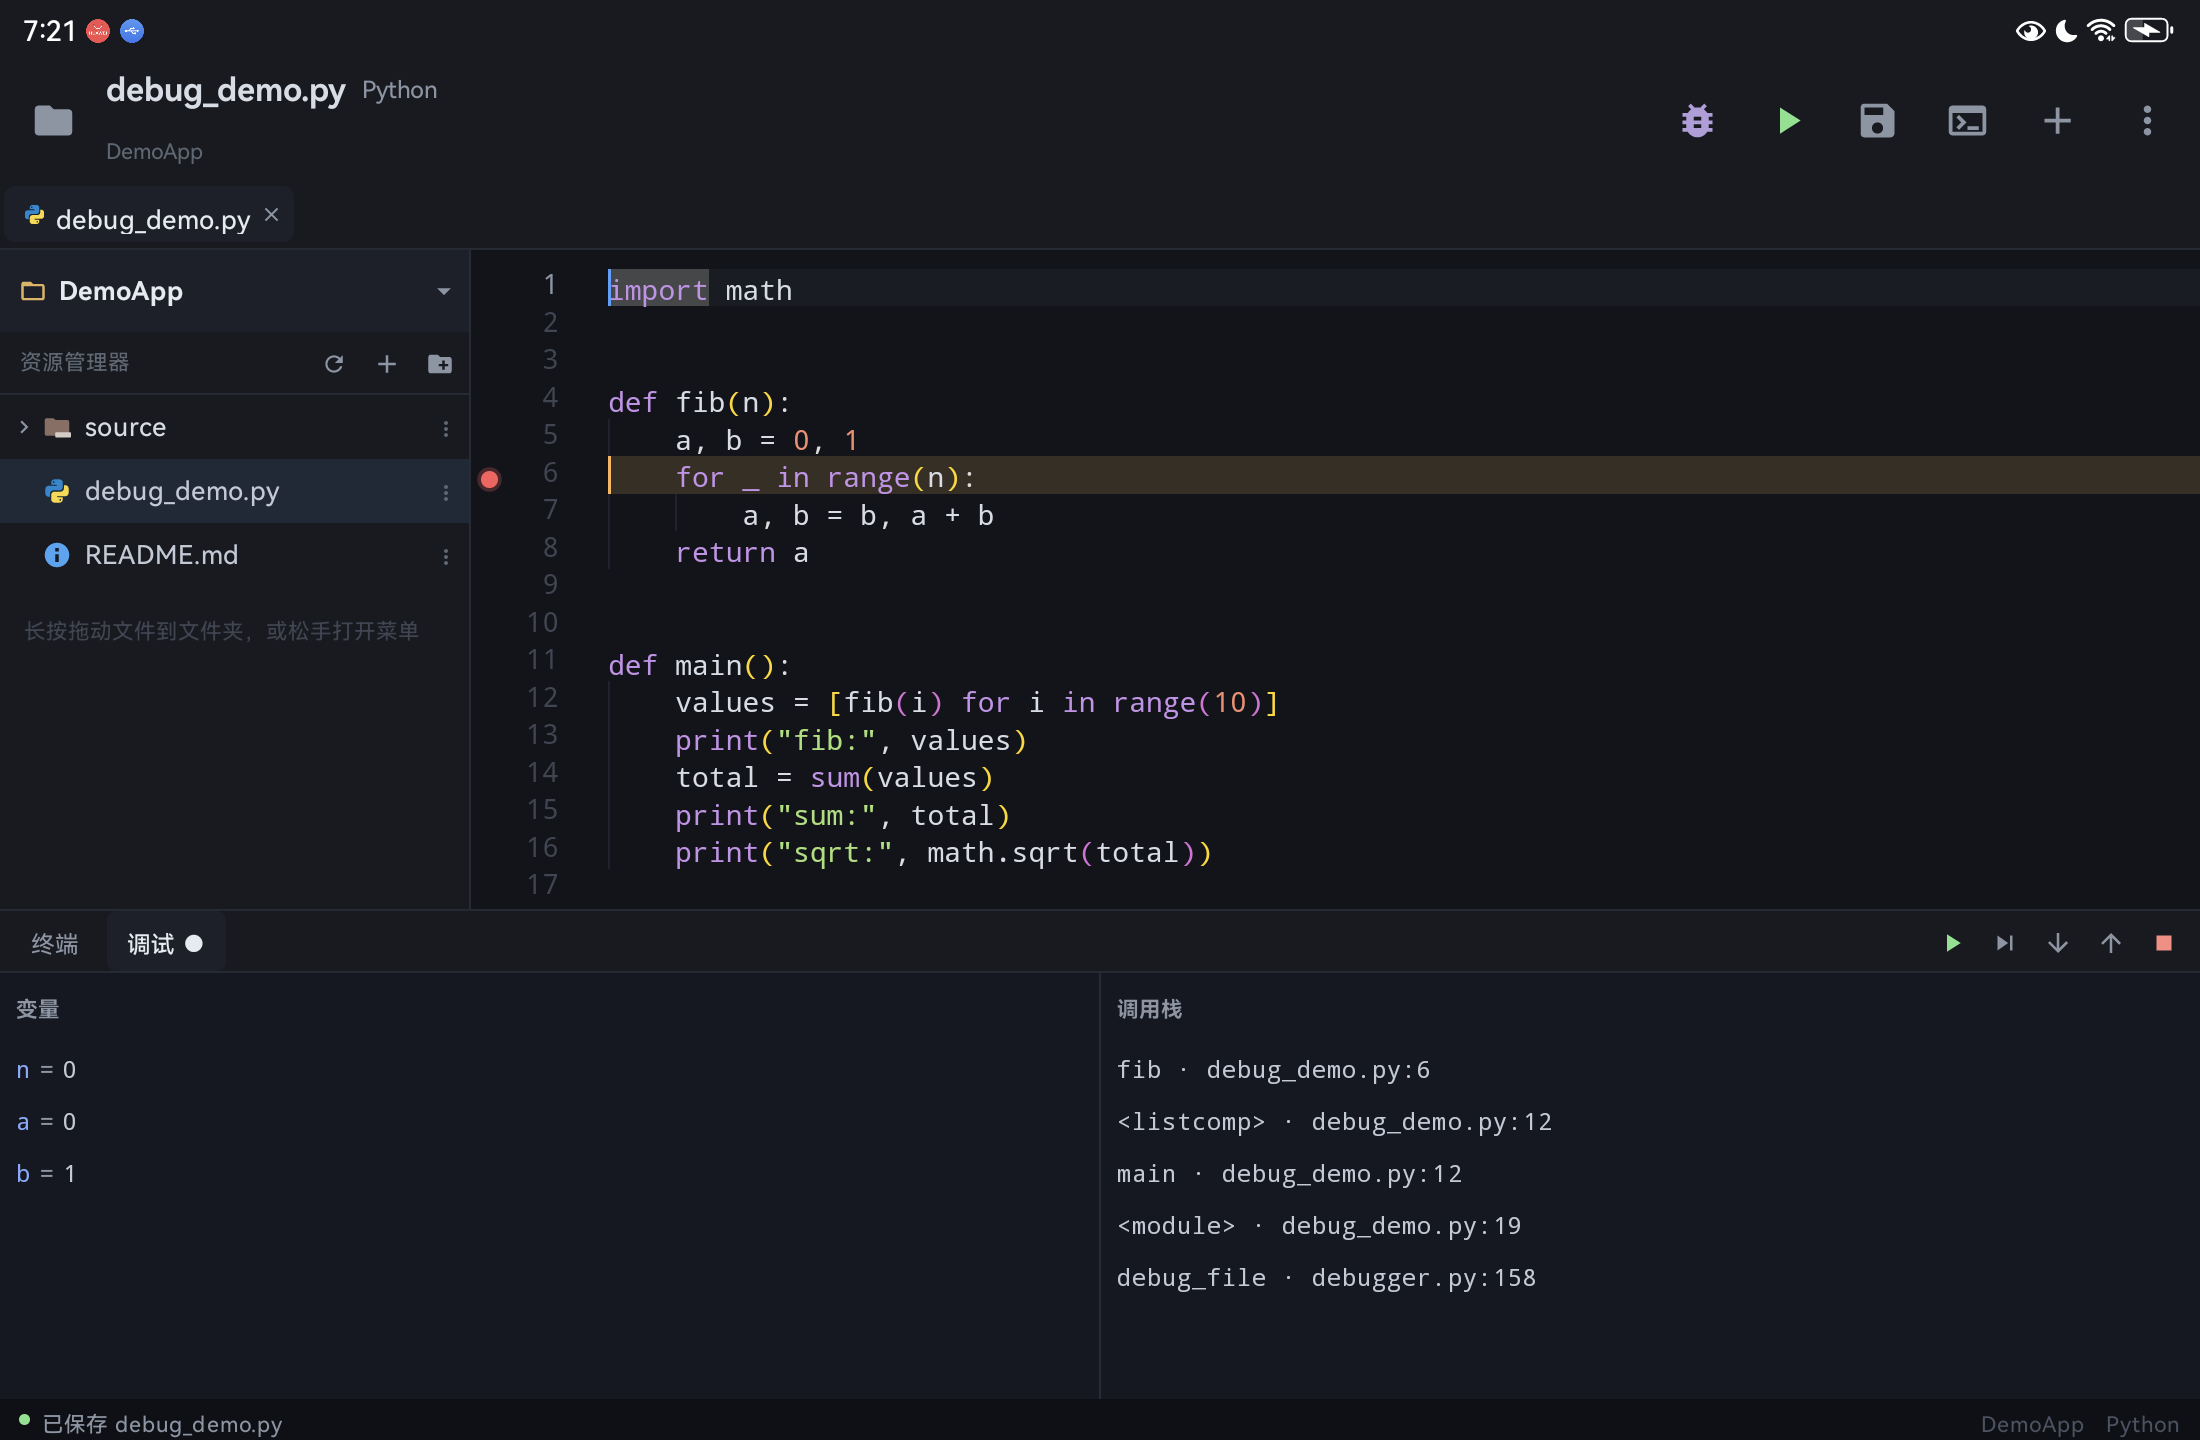
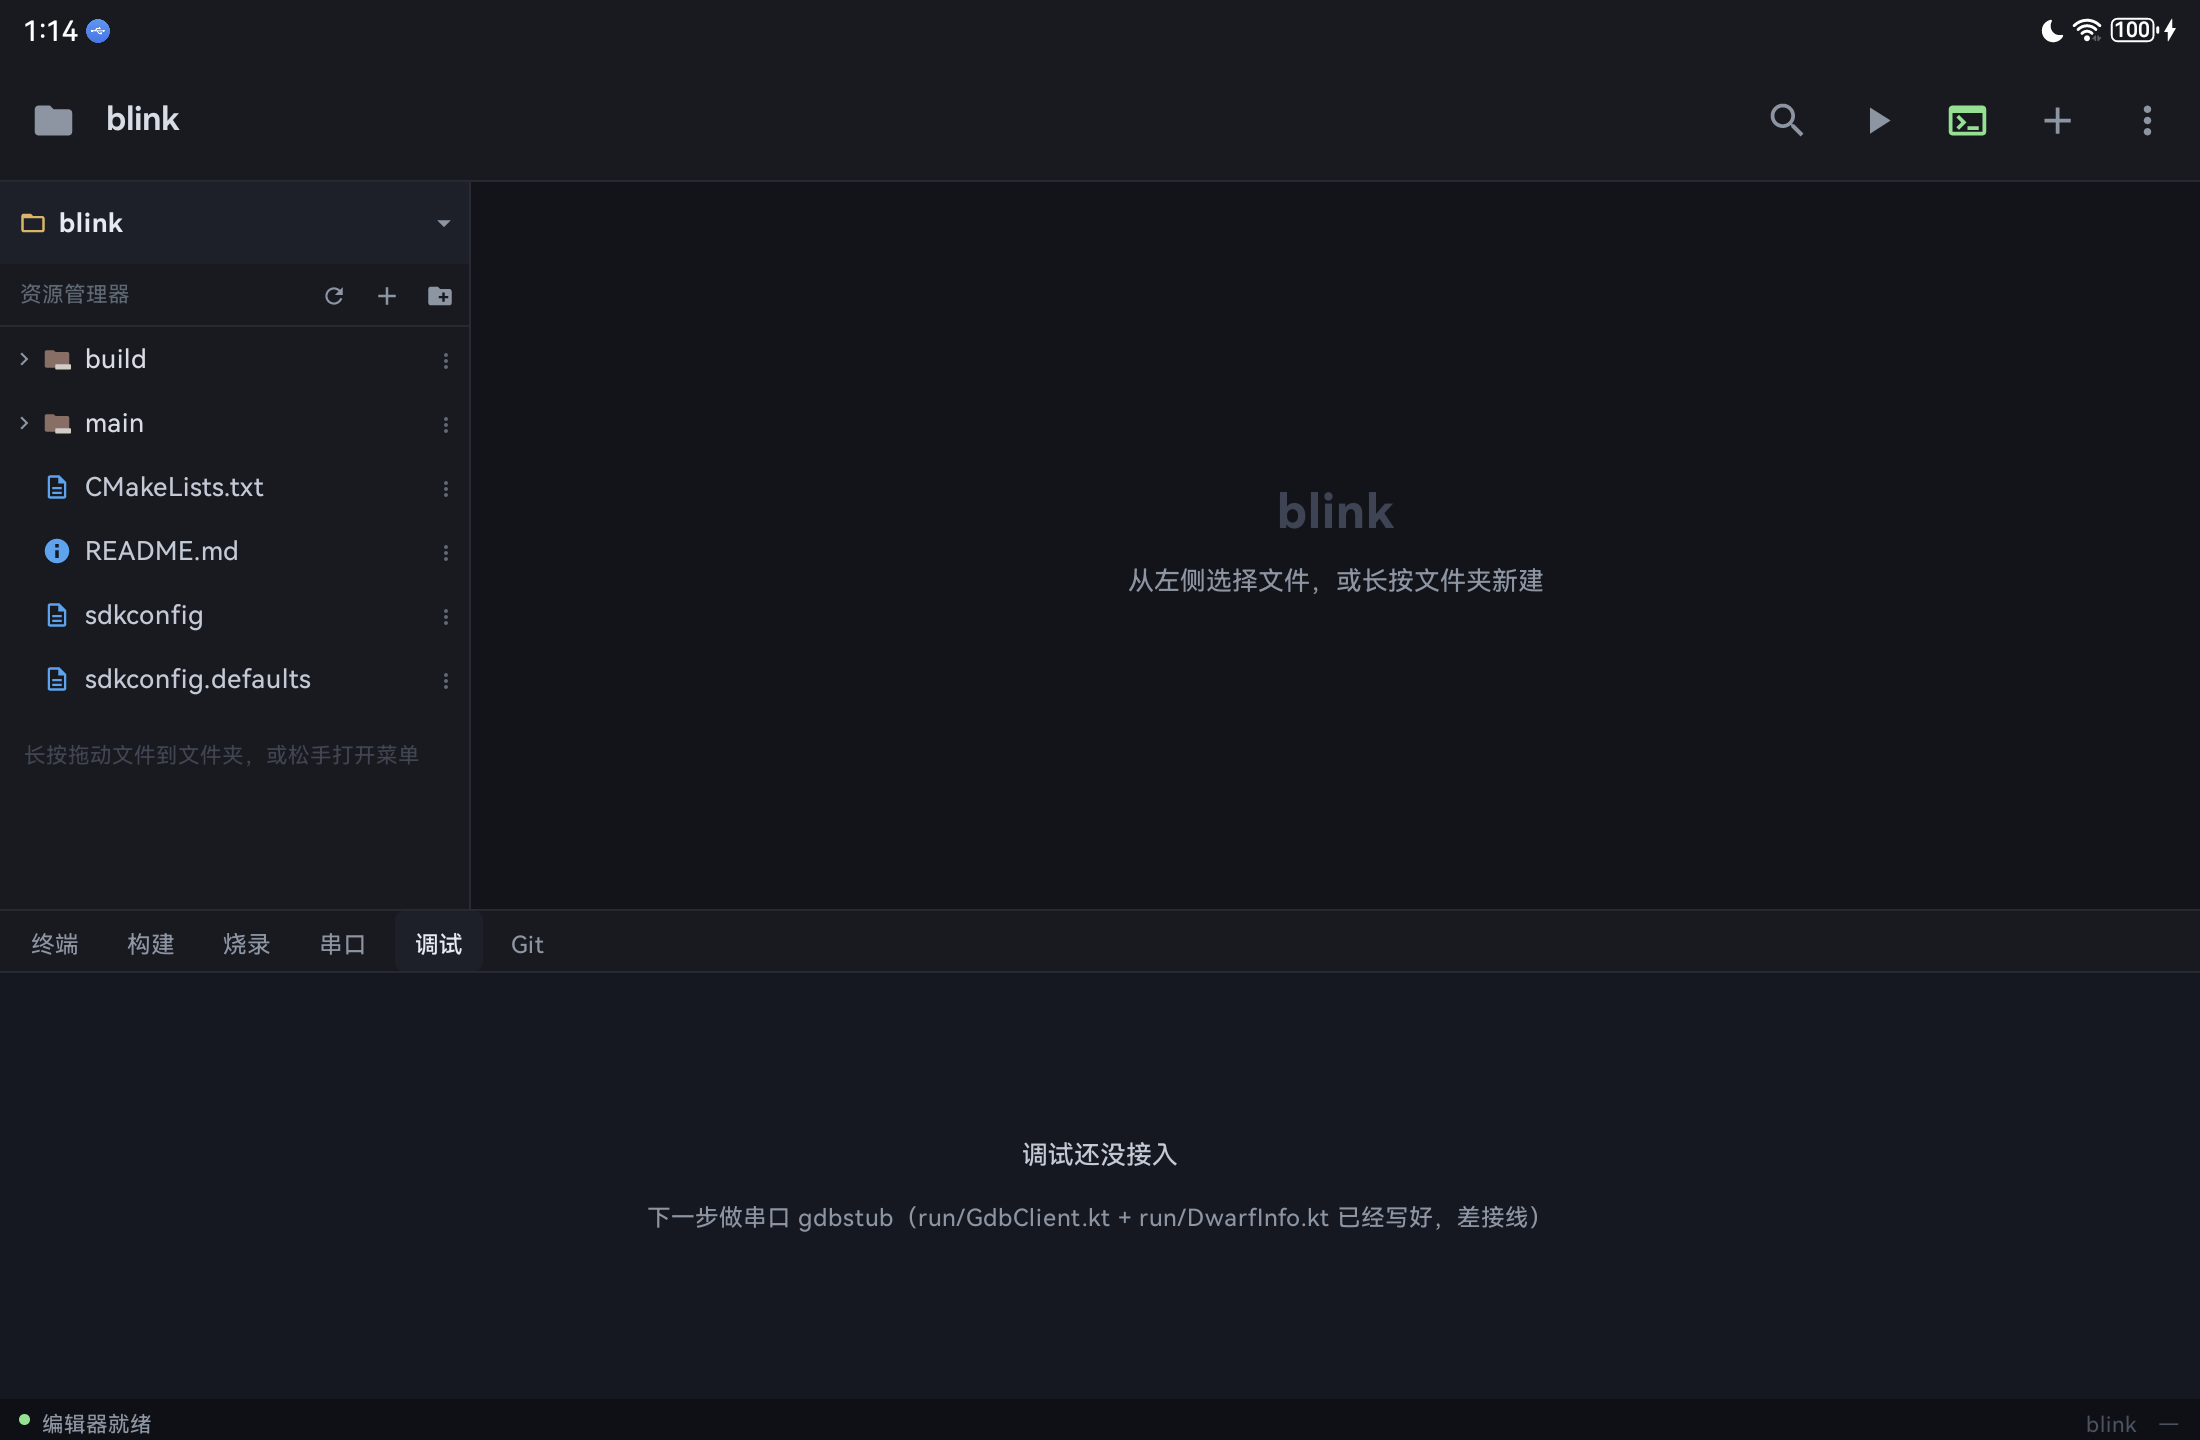
界面：顶栏只留能用的按钮、底部各面板动作统一
顶栏（用户反馈：除搜索/终端/构建外都像点不动）
- 去掉 烧录/串口/调试 三个图标：它们属于底部面板，没硬件时点了只有提示
- 保存只在打开了文件时出现；调试未接入，不再放只弹提示的入口
- 保留：资源管理器、搜索、构建/停止、保存(有条件)、终端、新建文件、更多

底部 Dock
- DebugBtn → DockAction：28dp/16dp 图标、只有图标、enabled 变灰，所有 Tab 一致
- 终端：清屏(🗑)/重启(⟳)/关闭(✕)；构建：▶ ⟳ 🔧 ■（停止只在实际构建时可点）
- 烧录：⚡ 烧录 + 🗑 清空日志；去掉重复的「构建」图标和面板里的「烧录/扫描串口」文字按钮
- 串口：未连接时只有「连接串口」(绿)，连接后变「断开」(红)，复位/下载模式/清屏按连接状态置灰；
  去掉面板里的「清屏」文字按钮
- 调试页改成说明页（串口 gdbstub 未接入），不再提供假按钮
- 新增 IdeController.clearFlashLog()

README 补「顶栏只放全局动作」「DockAction 规范」，坐标改成实测值（含 uiautomator dump 方法）

diff --git a/app/src/main/java/com/espforge/ide/Ui.kt b/app/src/main/java/com/espforge/ide/Ui.kt
@@ -44,6 +44,7 @@ import androidx.compose.material.icons.filled.SkipNext
 import androidx.compose.material.icons.filled.ArrowDropDown
 import androidx.compose.material.icons.filled.Close
 import androidx.compose.material.icons.filled.CreateNewFolder
+import androidx.compose.material.icons.filled.Delete
 import androidx.compose.material.icons.filled.Description
 import androidx.compose.material.icons.filled.Folder
 import androidx.compose.material.icons.filled.FolderOpen
@@ -365,29 +366,11 @@ fun IdeScreen(c: IdeController) {
                             Icon(Icons.Filled.PlayArrow, contentDescription = "构建", tint = idle)
                         }
                     }
-                    IconButton(onClick = { c.flash() }) {
-                        Icon(
-                            Icons.Filled.FlashOn,
-                            contentDescription = "烧录",
-                            tint = if (c.flashing) Green else idle,
-                        )
-                    }
-                    IconButton(onClick = { c.connectSerial() }) {
-                        Icon(
-                            Icons.Filled.Usb,
-                            contentDescription = "USB 串口",
-                            tint = if (c.serialOpen) Green else idle,
-                        )
-                    }
-                    IconButton(onClick = { c.startDebug() }) {
-                        Icon(
-                            Icons.Filled.BugReport,
-                            contentDescription = "调试",
-                            tint = if (c.debugActive) Green else idle,
-                        )
-                    }
-                    IconButton(onClick = { c.js("CP.requestSave()") }) {
-                        Icon(Icons.Filled.Save, contentDescription = "保存", tint = idle)
+                    // 保存只在打开了文件时出现，避免点了没反应
+                    if (c.active != null) {
+                        IconButton(onClick = { c.js("CP.requestSave()") }) {
+                            Icon(Icons.Filled.Save, contentDescription = "保存", tint = idle)
+                        }
                     }
                     IconButton(onClick = {
                         c.showTerminal = !c.showTerminal
@@ -995,40 +978,32 @@ private fun BottomDock(c: IdeController, panelHeight: Int) {
 
             Spacer(Modifier.weight(1f))
 
+            // 每个 Tab 的右侧动作统一：28dp 图标、16dp、只有图标没有文字，
+            // 主操作在左、危险操作(关闭/断开/停止)在右且用红色。
             if (c.bottomTab == TERMINAL_TAB) {
-                IconButton(onClick = { c.ensureTerminal(); c.clearTerminal() }, modifier = Modifier.size(24.dp)) {
-                    Icon(Icons.Filled.Refresh, null, tint = Muted, modifier = Modifier.size(13.dp))
-                }
-                IconButton(onClick = { c.restartTerminal() }, modifier = Modifier.size(24.dp)) {
-                    Icon(Icons.Filled.Terminal, null, tint = Muted, modifier = Modifier.size(13.dp))
-                }
-                IconButton(onClick = { c.showTerminal = false }, modifier = Modifier.size(24.dp)) {
-                    Icon(Icons.Filled.Close, null, tint = Muted, modifier = Modifier.size(13.dp))
-                }
+                DockAction(Icons.Filled.Delete, "清屏") { c.clearTerminal() }
+                DockAction(Icons.Filled.Refresh, "重启会话") { c.restartTerminal() }
+                DockAction(Icons.Filled.Close, "关闭面板") { c.showTerminal = false }
             } else if (c.bottomTab == BUILD_TAB) {
-                DebugBtn(Icons.Filled.PlayArrow, "构建", Green) { c.build() }
-                DebugBtn(Icons.Filled.Refresh, "清理") { c.cleanBuild() }
-                DebugBtn(Icons.Filled.Build, "自检") { c.runSelfCheck() }
-                DebugBtn(Icons.Filled.Stop, "停止", Color(0xFFFF8A80)) { if (c.building) c.stopBuild() }
+                DockAction(Icons.Filled.PlayArrow, "构建", Green) { c.build() }
+                DockAction(Icons.Filled.Refresh, "清理") { c.cleanBuild() }
+                DockAction(Icons.Filled.Build, "自检") { c.runSelfCheck() }
+                DockAction(Icons.Filled.Stop, "停止", Color(0xFFFF8A80), enabled = c.building) { c.stopBuild() }
             } else if (c.bottomTab == FLASH_TAB) {
-                DebugBtn(Icons.Filled.FlashOn, "烧录", Color(0xFFFFC857)) { c.flash() }
-                DebugBtn(Icons.Filled.Build, "构建") { c.build() }
+                // 烧录自己会在没连串口时去连；这里不再放「构建」（构建页有）
+                DockAction(Icons.Filled.FlashOn, "烧录", Color(0xFFFFC857), enabled = !c.flashing) { c.flash() }
+                DockAction(Icons.Filled.Delete, "清空烧录日志") { c.clearFlashLog() }
             } else if (c.bottomTab == SERIAL_TAB) {
-                DebugBtn(Icons.Filled.Usb, "连接串口", Green) { c.scanPorts(); c.connectSerial() }
-                DebugBtn(Icons.Filled.Refresh, "复位芯片") { c.serialReset() }
-                DebugBtn(Icons.Filled.Download, "进入下载模式") { c.serialToBootloader() }
-                DebugBtn(Icons.Filled.Close, "断开", Color(0xFFFF8A80)) { c.disconnectSerial() }
-            } else {
-                if (c.debugActive) {
-                    if (c.debugPaused) {
-                        DebugBtn(Icons.Filled.PlayArrow, "继续", Green) { c.debugContinue() }
-                        DebugBtn(Icons.Filled.SkipNext, "单步跳过") { c.debugStepOver() }
-                        DebugBtn(Icons.Filled.ArrowDownward, "单步进入") { c.debugStepInto() }
-                        DebugBtn(Icons.Filled.ArrowUpward, "跳出") { c.debugStepOut() }
-                    }
-                    DebugBtn(Icons.Filled.Stop, "停止", Color(0xFFFF8A80)) { c.debugStop() }
+                if (c.serialOpen) {
+                    DockAction(Icons.Filled.Close, "断开串口", Color(0xFFFF8A80)) { c.disconnectSerial() }
+                } else {
+                    DockAction(Icons.Filled.Usb, "连接串口", Green) { c.connectSerial() }
                 }
+                DockAction(Icons.Filled.Refresh, "复位芯片", enabled = c.serialOpen) { c.serialReset() }
+                DockAction(Icons.Filled.Download, "进入下载模式", enabled = c.serialOpen) { c.serialToBootloader() }
+                DockAction(Icons.Filled.Delete, "清屏", enabled = c.serialOpen) { c.serialJs("CP.term.clear()") }
             }
+            // 调试 Tab 的「开始调试」在面板里给说明，不放只会弹提示的图标按钮
         }
         HorizontalDivider(color = Stroke)
         Box(Modifier.fillMaxSize()) {
@@ -1084,9 +1059,24 @@ private fun DockTab(label: String, active: Boolean, onClick: () -> Unit) {
 }
 
 @Composable
-private fun DebugBtn(icon: ImageVector, label: String, tint: Color = Muted, onClick: () -> Unit) {
-    IconButton(onClick = onClick, modifier = Modifier.size(28.dp)) {
-        Icon(icon, contentDescription = label, tint = tint, modifier = Modifier.size(16.dp))
+private fun DockAction(
+    icon: ImageVector,
+    label: String,
+    tint: Color = Muted,
+    enabled: Boolean = true,
+    onClick: () -> Unit,
+) {
+    IconButton(
+        onClick = { if (enabled) onClick() },
+        enabled = enabled,
+        modifier = Modifier.size(28.dp),
+    ) {
+        Icon(
+            icon,
+            contentDescription = label,
+            tint = if (enabled) tint else Color(0xFF3B4250),
+            modifier = Modifier.size(16.dp),
+        )
     }
 }
 
@@ -1113,8 +1103,6 @@ private fun FlashContent(c: IdeController) {
                 overflow = TextOverflow.Ellipsis,
                 modifier = Modifier.widthIn(max = 260.dp),
             )
-            SmallAction("烧录") { c.flash() }
-            SmallAction("扫描串口") { c.scanPorts() }
         }
         Spacer(Modifier.height(4.dp))
         LinearProgressIndicator(
@@ -1170,7 +1158,6 @@ private fun SerialContent(c: IdeController) {
                         .padding(horizontal = 6.dp, vertical = 2.dp),
                 )
             }
-            SmallAction("清屏") { c.serialJs("CP.term.clear()") }
         }
         AndroidView(
             modifier = Modifier.fillMaxSize(),
@@ -1457,25 +1444,16 @@ private fun DebugContent(c: IdeController) {
         ) {
             Column(horizontalAlignment = Alignment.CenterHorizontally) {
                 Text(
-                    "点顶栏 🐞 开始调试",
+                    "调试还没接入",
                     fontSize = 12.sp,
                     color = Color(0xFFC2C9D6),
                 )
                 Spacer(Modifier.height(6.dp))
                 Text(
-                    "Python / JavaScript / C / Rust · 点行号设断点",
+                    "下一步做串口 gdbstub（run/GdbClient.kt + run/DwarfInfo.kt 已经写好，差接线）",
                     fontSize = 11.sp,
                     color = Muted,
                 )
-                val name = c.active?.name ?: ""
-                if (name.endsWith(".c") || name.endsWith(".rs")) {
-                    Spacer(Modifier.height(4.dp))
-                    Text(
-                        "C / Rust 首次调试要解压工具链，需要稍等一下",
-                        fontSize = 10.sp,
-                        color = Muted,
-                    )
-                }
             }
         }
         return

diff --git a/app/src/main/java/com/espforge/ide/IdeController.kt b/app/src/main/java/com/espforge/ide/IdeController.kt
@@ -1048,6 +1048,12 @@ class IdeController(private val activity: MainActivity) {
         flashLog = flashBuf.toString()
     }
 
+    /** 清空烧录日志 */
+    fun clearFlashLog() {
+        flashBuf.setLength(0)
+        flashLog = ""
+    }
+
     /** 枚举当前插着的 USB 串口 */
     fun scanPorts() {
         serialPorts = com.espforge.ide.serial.UsbSerial.list(activity)

diff --git a/README.md b/README.md
@@ -256,6 +256,12 @@ PREFIX=$P/tools/cmake             # Termux 版 cmake 靠它读 include/android/a
 - 终端 WebView 只在「终端」页挂载（其它页挂载会盖住构建/烧录面板，`AndroidView` 是原生层压不住）。
 - 顶栏：图标统一灰色剪影，当前激活项变绿。搜索框是顶栏内联的 300dp 圆角长条（靠右贴图标），
   结果用 `Popup` 浮层（左对齐、零动画、14dp 圆角），不要用 `DropdownMenu`（有入场动画会瞬间盖住输入框）。
+- **顶栏只放全局动作**：资源管理器(☰)、搜索、构建/停止、保存（只在打开了文件时出现）、终端、新建文件、更多。
+  烧录/串口/调试属于底部面板，不要再放回顶栏（没硬件时点了只会弹提示，看起来像坏按钮）。
+- **底部 Dock 的动作按钮统一用 `DockAction`**：28dp 按钮 + 16dp 图标、只有图标没有文字、右对齐；
+  顺序是「主操作在左、危险操作(关闭/断开/停止)在右且红色」，不可用的按钮传 `enabled = false` 变灰。
+  面板内部不要再放和头部重复的文字按钮（以前烧录页既有 ⚡ 又有「烧录」「扫描串口」文字按钮，已去掉）。
+- 调试页目前只是说明页（串口 gdbstub 还没接线），不放只会弹「还没接入」的按钮。
 - 构建面板的工具栏**只放图标、不带中文文字标签**（构建/清理/自检/停止 依次为 ▶ ⟳ 🔧 ■）；
   面板第一行只剩「芯片 · 状态」文字，不要再加文字按钮。
 
@@ -318,8 +324,10 @@ $adb='D:\DSH\plugins\dsh-androidforge\toolchain\android-sdk\platform-tools\adb.e
 ```
 
 坐标（实际 2200×1440；截图预览 1596 宽，比例 1.378）：顶栏搜索图标 `(1428,121)`、
-终端图标 `(1973,121)`、Dock 的「终端」「构建」标签 `(62,933)`/`(178,933)`；
+终端图标 `(1973,121)`；底部 Dock 标签（y=941）：终端 `(62)`、构建 `(151)`、烧录 `(247)`、
+串口 `(343)`、调试 `(438)`、Git `(528)`；
 构建面板的图标：▶ 构建 `(1999,933)`、⟳ 清理 `(2058,933)`、🔧 自检 `(2118,933)`、■ 停止 `(2168,933)`。
+（要精确坐标时用 `adb shell uiautomator dump /sdcard/ui.xml` 再 pull 下来查 `bounds`。）
 
 构建期的原始日志在 `<project>/build/log/idf_py_stderr_output_*`，cmake 报错先看它。
 
